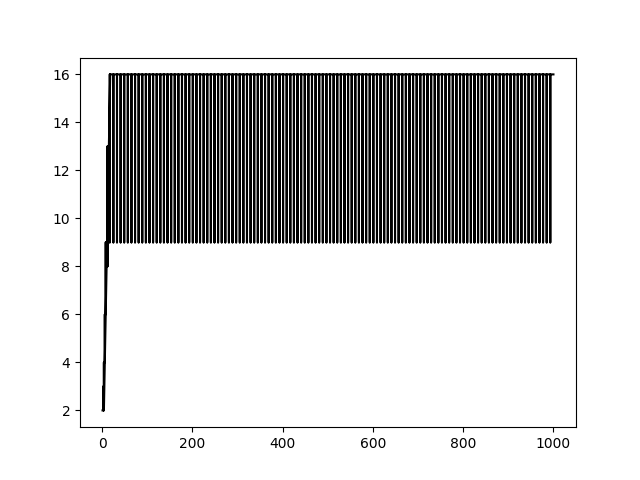
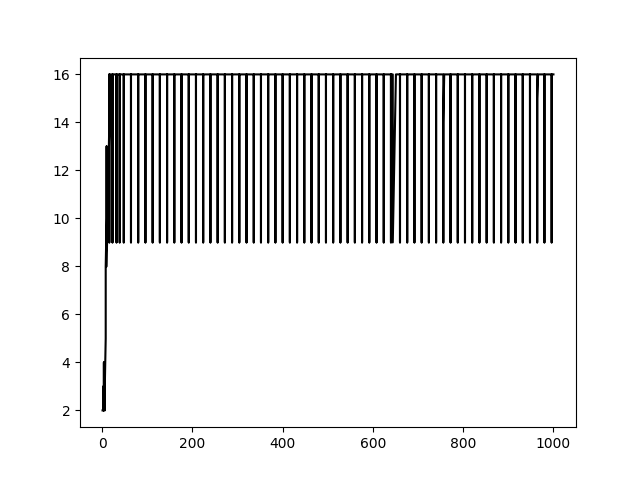
Implemented slow start

Changed region(s): [[0.1562, 0.1562, 0.875, 0.75]]

diff --git a/usever.py b/usever.py
@@ -69,19 +69,12 @@ th_recving = Thread(target = recving, args = ())
 th_recving.start()
 
 while True:
-    # time.sleep(random.random() / 10)
-    if receive_count >= 20:
-        time.sleep(pkt_delay * 10)
-    #     time.sleep(pkt_delay * 0.04)
-    #     print("time:",pkt_delay * 0.04)
-    #     # time.sleep(2)
-        receive_count = 0
-    #     continue
-    
+    if receive_count >= queue_max_size/2:
+        time.sleep(pkt_delay * (queue_max_size + 1) / (queue.qsize() + 1) ) 
+        receive_count = 0    
     
     seq_n = queue.get()
     # print("GET!!")
-    # time.sleep(pkt_delay * 2)
     if seq_n >= rcv_base: # in order delivery
     # if seq_n <= rcv_base: # in order delivery
         rcv_base = seq_n + 1 
